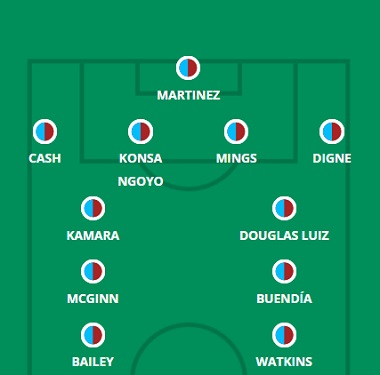
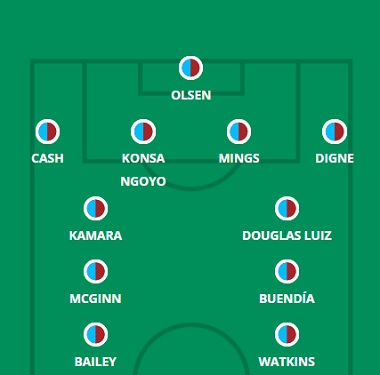
20/20

diff --git a/leeds.html b/leeds.html
@@ -63,15 +63,15 @@
     <hgroup>
         <h1> Provável Escalação</h1>
         <h2 class="direita"> por FabioVascão </h2>
-        <h3 class="direita"> Atualizado em 21/Novembro/2022 </h3>
+        <h3 class="direita"> Atualizado em 24/Novembro/2022 </h3>
     </hgroup>
 
     <div class="selecao"><p><b><img src="images/logos/leeds.png" width="100rem" height="100rem"/> Leeds</b></p></div>
        
     <div class="escalacao">
         <div class="topo">
-            <h2 class="titulo">Ultimas Notícias</h2> <h4><p> Como de costume, há muita coisa acontecendo no Leeds quando se trata de notícias da equipe. Stuart Dallas (joelho) e Archie Gray (tornozelo) permanecem na lista de lesionados e Tyler Adams está suspenso para a 17ª rodada, enquanto Luis Sinisterra (pé) não parece estar mais perto de um retorno. Illan Meslier (doença), Junior Firpo (virilha), Robin Koch (Aquiles), Patrick Bamford (quadril/virilha), Crysencio Summerville (pé) e Diego Llorente (mão), todos ausentes para o penúltimo amistoso do Leeds no meio da temporada contra o Real No entanto, o Sociedad, na última sexta-feira, tem uma “boa chance” de se recuperar para a próxima partida do campeonato contra o Manchester City. Jack Harrison não estava envolvido naquele jogo da Sociedad, mas o chefe adjunto do Leeds, Rene Maric, enfatizou que o ala "não está ferido" e simplesmente não estava em risco por precaução. Mais atualizações a seguir após as conferências de imprensa pré-jogo.</p></h4><br>
-            <h4><strong>Dúvidas:</strong> Dallas, Gray (Archie), Bamford, Firpo, Koch, Meslier, Sinisterra, Summerville e Adams (Tyler). </h4>
+            <h2 class="titulo">Ultimas Notícias</h2> <h4><p> Tyler Adams (suspenso), Stuart Dallas (joelho) e Luis Sinisterra (pé) são os únicos jogadores seniores definitivamente descartados da visita do Manchester City, mas o Leeds tem muitas preocupações em outros lugares. Illan Meslier (doença), Patrick Bamford (quadril/virilha), Crysencio Summerville (pé), Mateusz Klich (doença), Jack Harrison (virilha), Liam Cooper (panturrilha) e Rodrigo (coxa) estão todos marcados para a 17ª rodada, mas Jesse Marsch parecia otimista com a maioria de suas chances, esperando que todos eles pelo menos voltassem a treinar antes do jogo de quarta-feira. Marsch experimentou sua formação durante a Copa do Mundo, mudando de seu habitual 4-2-3-1 para um 4-3-3 nos dois últimos amistosos do meio da temporada. Cooper, Meslier e Rodrigo, você esperaria retornar ao XI inicial se estiverem totalmente aptos para a visita ao City, com uma saída Klich sobre Sam Greenwood e Harrison sobre Willy Gnonto possibilidades menos prováveis em suas respectivas posições. Luke Ayling e Joe Gelhardt estão na fila para substituir o meio-campo e o centroavante, respectivamente, se Cooper e Rodrigo não estiverem disponíveis, enquanto Joel Robles e Kristoffer Klaesson são os substitutos de Meslier se sua febre glandular o tornar incapaz de Reproduzir. Summerville pode estar perto de um retorno, mas depois de três semanas sem futebol, um substituto parece ser o cenário mais provável contra os atuais campeões.</p></h4><br>
+            <h4><strong>Dúvidas:</strong> Dallas, Gray (Archie), Sinisterra, Bamford, Cooper, Harrison, Klich, Meslier, Rodrigo,Summerville e Adams (Tyler). </h4>
         </div>
         <aside>
             <figure>

diff --git a/spurs.html b/spurs.html
@@ -63,15 +63,15 @@
     <hgroup>
         <h1> Provável Escalação</h1>
         <h2 class="direita"> por FabioVascão </h2>
-        <h3 class="direita"> Atualizado em 21/Novembro/2022 </h3>
+        <h3 class="direita"> Atualizado em 24/Novembro/2022 </h3>
     </hgroup>
 
     <div class="selecao"><p><b><img src="images/logos/tottenham.png" width="100rem" height="100rem"/> Tottenham</b></p></div>
        
     <div class="escalacao">
         <div class="topo">
-            <h2 class="titulo">Ultimas Notícias</h2> <h4><p> Relatos generalizados sugerem que Richarlison pode ficar fora por cinco a seis semanas devido a uma lesão no tendão que contraiu na derrota do Brasil nas quartas de final da Copa do Mundo para a Croácia, com uma varredura definida para determinar a extensão do problema. Ben Davies e Rodrigo Bentancur também voltaram do Catar com problemas musculares, embora Davies já esteja recuperado e Bentancur esteja suspenso para a 17ª rodada devido ao acúmulo de cartões amarelos. Ryan Sessegnon (coxa) não joga desde a semana 15, mas agora está recuperado, enquanto Emerson Royal, Lucas Moura e Fraser Forster sofreram pequenas pancadas e não correram riscos nos dois primeiros amistosos do Spurs no meio da temporada. Son Heung-min, Oliver Skipp e Djed Spence estão todos sofrendo de um vírus antes do amistoso final dos Lilywhites contra o Nice na quarta-feira. Mais atualizações a seguir após as conferências de imprensa pré-jogo.</p></h4><br>
-            <h4><strong>Dúvidas:</strong> Richarlison, Lucas Moura, Skipp, Spence e Bentancur.</h4>
+            <h2 class="titulo">Ultimas Notícias</h2> <h4><p> É uma verdadeira confusão quando se trata dos três jogadores do Spurs que estiveram envolvidos no último fim de semana da Copa do Mundo. Ivan Perisic está disponível para a seleção, mas Cristian Romero não estará de volta até a rodada 18 e Hugo Lloris estará apenas no banco contra o Brentford, o que significa uma largada para Fraser Forster entre os postes. No que diz respeito a lesões, Richarlison (coxa) enfrenta mais três a quatro semanas de ausência e Antonio Conte deu a entender que Lucas Moura ainda estava fora de jogo com as persistentes imperfeições que restringiram seu envolvimento em 2022/23 até agora. Matt Doherty parece bom para começar no oeste de Londres depois de quatro gols em três amistosos, mas pode jogar no flanco esquerdo, onde está implantado, com Perisic apenas voltando ao treinamento após 670 minutos de jogo com a Croácia e Ryan Sessegnon ainda não chutou uma bola após se recuperar de uma lesão. Outro zagueiro esquerdo que está em forma novamente, Ben Davies, conseguiu 24 minutos contra o Nice no meio da semana, mas não seria uma surpresa ver Davison Sanchez alinhar ao lado de Eric Dier e Clement Lenglet no meio-campo. Yves Bissouma parece pronto para substituir o suspenso Rodrigo Bentancur no meio-campo, enquanto a ausência de Richarlison e Lucas provavelmente cimenta as largadas dos três atacantes, desde que Son Heung-min não tenha nenhum efeito prolongado da doença que o restringiu para uma participação especial no meio da semana.</p></h4><br>
+            <h4><strong>Dúvidas:</strong> Richarlison, Lucas Moura, Skipp, Spence, Bentancur e Romero.</h4>
         </div>
         <aside>
             <figure>

diff --git a/chelsea.html b/chelsea.html
@@ -63,15 +63,15 @@
     <hgroup>
         <h1> Provável Escalação</h1>
         <h2 class="direita"> por FabioVascão </h2>
-        <h3 class="direita"> Atualizado em 21/Novembro/2022 </h3>
+        <h3 class="direita"> Atualizado em 24/Novembro/2022 </h3>
     </hgroup>
 
     <div class="selecao"><p><b><img src="images/logos/chelsea.png" width="100rem" height="100rem"/> Chelsea</b></p></div>
        
     <div class="escalacao">
         <div class="topo">
-            <h2 class="titulo">Ultimas Notícias</h2> <h4><p> Armando Broja é a mais recente adição a uma longa lista de lesões, depois de contrair uma lesão no ACL que encerrou sua temporada. N'Golo Kante (coxa) também ficará de fora por algum tempo, enquanto Ruben Loftus-Cheek (panturrilha) e Ben Chilwell (coxa) ainda não voltaram a treinar por conta das lesões sofridas antes da Copa do Mundo. Há rumores positivos sobre Reece James (joelho), pelo menos, enquanto houve a visão bem-vinda de Kepa Arrizabalaga (pé) em imagens de campo de treinamento na semana passada. Wesley Fofana (joelho) também estava prestes a retornar, mas se machucou novamente em um amistoso a portas fechadas contra o Brentford na terça-feira, então ele agora parece estar de fora do programa festivo. Há sugestões de que Mason Mount perdeu aquele jogo com uma leve distensão na panturrilha. Mais atualizações a seguir após as conferências de imprensa pré-jogo. </p></h4><br>
-            <h4><strong>Dúvidas:</strong> Broja, Kanté, Kepa, Chilwell, Chukwuemeka, Fofana, James (Reece) e Loftus-Cheek. </h4>
+            <h2 class="titulo">Ultimas Notícias</h2> <h4><p> Armando Broja (ACL), N'Golo Kante (coxa), Ruben Loftus-Cheek (panturrilha), Ben Chilwell (coxa) e Wesley Fofana (joelho) estão todos na lista de lesionados do Chelsea, enquanto Hakim Ziyech e Mateo Kovacic não ainda voltou para o oeste de Londres depois de sua longa campanha na Copa do Mundo e também não estará disponível na 17ª rodada. Houve alguns comentários positivos de Graham Potter sobre Reece James, pelo menos, com o chefe do Chelsea dizendo que o lateral esteve envolvido no treinamento e conseguiu 65 minutos em um amistoso contra o Brentford no meio da semana. A ausência de menção a Kepa Arrizabalaga (pé) e Mason Mount (panturrilha) durante o resumo das lesões também é uma boa notícia, com relatos sugerindo que a dupla esteve envolvida em treinamento. Em mais um reforço a Kepa, o treinador do Chelsea disse que Edouard Mendy só teve “alguns dias a treinar connosco”, pelo que o espanhol pode recuperar o seu lugar entre os postes frente aos Cherries. A ausência de Kovacic, Kante e Loftus-Cheek pode persuadir Potter a optar por um meio-campo de três homens para dar a Jorginho mais apoio no meio, com Carney Chukwuemeka e Denis Zakaria como alternativas a Conor Gallagher e Mount. Christian Pulisic é outra opção mais avançada depois de uma Copa do Mundo decente com os EUA, enquanto Lewis Hall, Thiago Silva e Cesar Azpilicueta são possibilidades na defesa. </p></h4><br>
+            <h4><strong>Dúvidas:</strong> Broja, Kanté, Kepa, Chilwell, Chukwuemeka, Fofana, Ziyech e Loftus-Cheek. </h4>
         </div>
         <aside>
             <figure>

diff --git a/arsenal.html b/arsenal.html
@@ -63,15 +63,15 @@
     <hgroup>
         <h1> Provável Escalação</h1>
         <h2 class="direita"> por FabioVascão </h2>
-        <h3 class="direita"> Atualizado em 21/Novembro/2022 </h3>
+        <h3 class="direita"> Atualizado em 24/Novembro/2022 </h3>
     </hgroup>
 
     <div class="selecao"><p><b><img src="images/logos/arsenal.svg" width="100rem" height="100rem"/> Arsenal</b></p></div>
        
     <div class="escalacao">
         <div class="topo">
-            <h2 class="titulo">Ultimas Notícias</h2> <h4><p> Gabriel Jesus definitivamente perderá o programa festivo devido a uma lesão no joelho que pode mantê-lo fora por até três meses, enquanto dois jogadores do Arsenal que sofreram lesões durante o outono - Emile Smith Rowe (virilha) e Oleksandr Zinchenko (músculo) - não participaram dos quatro amistosos do meio da temporada. Takehiro Tomiyasu também contraiu uma lesão no tendão da coxa enquanto jogava fora com o Japão na Copa do Mundo, enquanto a lesão de Reiss Nelson sofrida na derrota do último sábado para a Juventus está sendo avaliada. Mais atualizações a seguir após as conferências de imprensa pré-jogo.</p></h4><br>
-            <h4><strong>Dúvidas:</strong> Jesus, Smith-Rowe, Tomiyasu, Zinchenko.</h4>
+            <h2 class="titulo">Ultimas Notícias</h2> <h4><p> Gabriel Jesus definitivamente perderá o programa festivo devido a uma lesão no joelho, enquanto Reiss Nelson também enfrenta “semanas” de ausência devido a um problema muscular contraído em um amistoso contra a Juventus na semana passada. Emile Smith Rowe (virilha) está “perto” de uma recuperação, de acordo com seu empresário, mas não houve nenhuma atualização recente sobre Oleksandr Zinchenko (músculo) ou Takehiro Tomiyasu (coxa) no pré-jogo de Arteta; relatos da mídia sugerem que Tomiyasu, junto com Kieran Tierney, estava apenas descansado para o amistoso do meio da semana contra o Luton Town. Houve mais notícias positivas em outro lugar, pois Arteta relatou que, além do ferido Jesus e do finalista William Saliba, seu contingente da Copa do Mundo havia retornado antes da 17ª semana de jogo. Jogadores como Bukayo Saka e Gabriel Martinelli participaram daquele amistoso contra o Hatters, então parecem prontos para o envolvimento do Boxing Day, com a maior parte do XI inicial naquele jogo a portas fechadas (que incluía Eddie Nketiah no meio) parecendo o que veremos contra o West Ham. As únicas dúvidas provavelmente são sobre Saliba e Tierney, com o primeiro pronto para voltar aos treinos na sexta-feira, após envolvimento limitado na rodada com a França no Catar. Enquanto isso, Tierney foi esquecido como lateral-esquerdo na última vez em que Zinchenko esteve fora, mas com Tomiyasu lutando para se preparar e o escocês participando de todos os quatro amistosos anteriores no meio da temporada, os sinais parecem positivos. Rob Holding e Cedric Soares estarão de prontidão no centro e na lateral-esquerda, respectivamente.</p></h4><br>
+            <h4><strong>Dúvidas:</strong> Jesus, Nelson, Smith-Rowe, Tomiyasu e Zinchenko.</h4>
         </div>
         <aside>
             <figure>

diff --git a/everton.html b/everton.html
@@ -63,14 +63,14 @@
     <hgroup>
         <h1> Provável Escalação</h1>
         <h2 class="direita"> por FabioVascão </h2>
-        <h3 class="direita"> Atualizado em 21/Novembro/2022 </h3>
+        <h3 class="direita"> Atualizado em 24/Novembro/2022 </h3>
     </hgroup>
 
     <div class="selecao"><p><b><img src="images/logos/everton.png" width="100rem" height="100rem"/> Everton</b></p></div>
        
     <div class="escalacao">
         <div class="topo">
-            <h2 class="titulo">Ultimas Notícias</h2> <h4><p> Curiosamente, o Everton organizou seus amistosos no meio da temporada logo após o término da 16ª rodada, então a última atualização de condicionamento físico que recebemos de Frank Lampard foi há um mês. Lesões de três a quatro semanas contraídas por Yerry Mina e Tom Davies em meados de novembro devem estar perto de serem recuperadas com base no prognóstico original, então. A dupla, junto com Dominic Calvert-Lewin (joelho/ombro/coxa), foram vistos no campo de treinamento em meados de dezembro, embora fosse apenas um trabalho de ginástica feito por Mina e Calvert-Lewin, quinze dias antes do confronto com o Wolves. . James Garner pode ficar de fora até fevereiro devido a uma lesão na parte inferior das costas, enquanto o emprestado Conor Coady definitivamente perderá a 17ª rodada, já que não pode enfrentar seu clube matriz. Mais atualizações a seguir após as conferências de imprensa pré-jogo.</p></h4><br>
+            <h2 class="titulo">Ultimas Notícias</h2> <h4><p> James Garner (costas), Andros Townsend (joelho) e Conor Coady (inelegível) definitivamente perderão a Rodada 17, enquanto Dominic Calvert-Lewin (joelho/ombro/coxa) está de volta aos treinos, mas uma dúvida para o jogo com os Wolves, já que Frank Lampard não 't quer correr riscos com sua forma física. Não temos muitas pistas reveladoras sobre a escalação dos amistosos do meio da temporada, já que as duas primeiras partidas do Everton foram realizadas logo após o término da 16ª rodada e a partida mais recente foi disputada a portas fechadas, sem informações sobre a escalação. acessível. Mas Mason Holgate pode ter vantagem para substituir Coady depois de fazer parceria com James Tarkowski no último amistoso de novembro na Austrália, enquanto o fato de Dwight McNeil não ter começado na ala em nenhuma das partidas Down Under (uma em que ele foi substituído, a outra ele foi usado no meio-campo central) sugere que serão Demarai Gray e Anthony Gordon que veremos flanqueando Neal Maupay contra o Wolves. O trio de meio-campo de Alex Iwobi, Amadou Onana e Idrissa Gueye permaneceu inalterado nas últimas nove semanas de jogo, enquanto Vitalli Mykolenko e Tarkowski são titulares sempre presentes na defesa nesta temporada. Nathan Patterson recuperou seu lugar como lateral-direito na Gameweek 16, enquanto isso, com algumas exibições positivas nos amistosos sugerindo que ele continuará eliminando o rival de posição Seamus Coleman.</p></h4><br>
             <h4><strong>Dúvidas:</strong> Coady, Garner, Calvert-Lewin e Townsend. </h4>
         </div>
         <aside>

diff --git a/leicester.html b/leicester.html
@@ -63,15 +63,15 @@
     <hgroup>
         <h1> Provável Escalação</h1>
         <h2 class="direita"> por FabioVascão </h2>
-        <h3 class="direita"> Atualizado em 21/Novembro/2022 </h3>
+        <h3 class="direita"> Atualizado em 24/Novembro/2022 </h3>
     </hgroup>
 
     <div class="selecao"><p><b><img src="images/logos/leicester.png" width="100rem" height="100rem"/> Leicester</b></p></div>
        
     <div class="escalacao">
         <div class="topo">
-            <h2 class="titulo">Ultimas Notícias</h2> <h4><p> James Justin (Aquiles), Ryan Bertrand (joelho) e Ricardo Pereira (Aquiles) permanecem de fora, enquanto Caglar Soyuncu (coxa) não joga desde o início de novembro, mas foi flagrado treinando esta semana. A nova lesão a relatar diz respeito a Jonny Evans (panturrilha), que saiu mancando do amistoso a portas fechadas dos Foxes contra o Troyes em 10 de dezembro. Kiernan Dewsbury-Hall também perdeu a eliminatória da copa com uma “pequena batida”. Mais atualizações a seguir após as conferências de imprensa pré-jogo.</p></h4><br>
-            <h4><strong>Dúvidas:</strong> Ricardo Pereira, Bertrand, Justin, Dewsbury-Hall, Evans e Söyüncü.</h4>
+            <h2 class="titulo">Ultimas Notícias</h2> <h4><p> Brendan Rodgers revelou na sexta-feira que James Maddison está lutando com um problema contínuo no joelho, então o internacional da Inglaterra precisará ser avaliado para ver se ele pode participar do jogo do Boxing Day contra o Newcastle United. James Justin (Aquiles), Ryan Bertrand (joelho) e Ricardo Pereira (Aquiles) permanecem ausentes, enquanto Jonny Evans (panturrilha) juntou-se a eles depois de sair mancando do amistoso a portas fechadas dos Foxes contra o Troyes em dezembro 10. Kiernan Dewsbury-Hall se recuperou de uma pequena pancada, no entanto, e voltou à disputa depois de perder no meio da semana. Enquanto Rodgers estava otimista sobre Maddison ("vamos dar todas as chances"), não seria uma surpresa se ele não corresse o risco de mais duas partidas caindo logo após a 17ª rodada. Dennis Praet tem sido usado no flanco direito no lugar de Maddison ultimamente e será o favorito para ocupar o lugar de seu companheiro de equipe se ele perder, com Ayoze Perez - recém-saído de uma exibição encorajadora em um papel de meio-campo ofensivo contra Dons MK - outra possibilidade. Os únicos outros dilemas de Rodgers parecem ser o meio-campo e o centroavante. No topo, o artilheiro do meio da semana Jamie Vardy e Patson Daka (inicial em sete dos últimos 10 jogos da liga) provavelmente dividirão o tempo de jogo neste período movimentado. E assim como há uma troca de guarda no ataque, também pode estar acontecendo a mesma coisa na sala de máquinas: o lento Boubakary Soumare foi titular regular durante o ressurgimento do Leicester antes do intervalo da Copa do Mundo e novamente jogou à frente de Wilfred Ndidi em meio da semana.</p></h4><br>
+            <h4><strong>Dúvidas:</strong> Ricardo Pereira, Bertrand, Justin, Evans e Maddison.</h4>
         </div>
         <aside>
             <figure>

diff --git a/liverpool.html b/liverpool.html
@@ -63,15 +63,15 @@
     <hgroup>
         <h1> Provável Escalação</h1>
         <h2 class="direita"> por FabioVascão </h2>
-        <h3 class="direita"> Atualizado em 21/Novembro/2022 </h3>
+        <h3 class="direita"> Atualizado em 24/Novembro/2022 </h3>
     </hgroup>
 
     <div class="selecao"><p><b><img src="images/logos/liverpool.png" width="100rem" height="100rem"/> Liverpool</b></p></div>
        
     <div class="escalacao">
         <div class="topo">
-            <h2 class="titulo">Ultimas Notícias</h2> <h4><p> Arthur (músculo) permanece de fora até o início de 2023, mas as principais notícias sobre lesões do ponto de vista da FPL dizem respeito a Diogo Jota (coxa) e Luis Diaz (joelho), o último dos quais pode estar na fila para um retorno da Rodada 17 se sua recuperação tivesse ido bem durante o intervalo da Copa do Mundo. Mas Diaz teve um revés que exigiu intervenção cirúrgica, o que pode deixá-lo afastado até março. Jota, por sua vez, está de volta ao ginásio, mas fevereiro foi apontado como a data de retorno do atacante português. Mais atualizações a seguir após as conferências de imprensa pré-jogo.</p></h4><br>
-            <h4><strong>Dúvidas:</strong> Díaz, Arthur, Diogo Jota e Jones.</h4>
+            <h2 class="titulo">Ultimas Notícias</h2> <h4><p> Arthur (músculo), Diogo Jota (coxa) e Luis Diaz (joelho) são ausências de médio a longo prazo, enquanto Roberto Firmino (panturrilha) e James Milner (coxa) devem ficar de fora pelo menos nos próximos dois jogos e Ibrahima Konate não voltará a treinar até 27 de dezembro, após sua corrida até a final da Copa do Mundo. Trent Alexander-Arnold, que perdeu a eliminatória da EFL Cup com o Manchester City na quinta-feira por causa de um vírus, também precisará ser avaliado antes do Boxing Day, tendo treinado apenas parcialmente na sexta-feira. Alex Oxlade-Chamberlain e Fabio Carvalho parecem prestes a brigar pelo terceiro ponto de ataque em meio à crise de lesões no topo, com o último substituído pelo primeiro no intervalo da derrota na copa de quinta-feira para o City e talvez perdendo a vantagem para a 17ª rodada. uma batalha semelhante na sala de máquinas, com Jordan Henderson de volta da Inglaterra para desafiar Harvey Elliott e oferecer um pouco mais de proteção no lado direito do meio-campo contra um time do Villa impulsionado pela recente mudança gerencial. Joel Matip e Virgil van Dijk parecem ser a dupla de meio-campo em Midlands, mas nem tudo está perdido para o fora de série Joe Gomez, que pode ser solicitado a substituir o lateral-direito se Alexander-Arnold não for 'não considerado apto o suficiente para começar após a doença.</p></h4><br>
+            <h4><strong>Dúvidas:</strong> Firmino, Díaz, Konaté, Milner, Arthur, Diogo Jota, Arnold e Jones.</h4>
         </div>
         <aside>
             <figure>

diff --git a/brighton.html b/brighton.html
@@ -63,15 +63,15 @@
     <hgroup>
         <h1> Provável Escalação</h1>
         <h2 class="direita"> por FabioVascão </h2>
-        <h3 class="direita"> Atualizado em 21/Novembro/2022 </h3>
+        <h3 class="direita"> Atualizado em 24/Novembro/2022 </h3>
     </hgroup>
 
     <div class="selecao"><p><b><img src="images/logos/brighton.png" width="100rem" height="100rem"/> Brighton</b></p></div>
        
     <div class="escalacao">
         <div class="topo">
-            <h2 class="titulo">Ultimas Notícias</h2> <h4><p> Jakub Moder (joelho) continua na lista de lesionados, enquanto o único amistoso de Brighton no meio da temporada em 8 de dezembro viu Adam Webster e Danny Welbeck mancando no primeiro tempo. Nenhum dos jogadores foi visto em treinamento antes do empate da EFL Cup no meio da semana contra o Charlton e Roberto De Zerbi confirmou que a dupla ficaria de fora. Alexis Mac Allister parece prestes a perder as semanas de jogo 17 e 18, com os Seagulls confirmando que lhe deram duas semanas de folga após a corrida dele e da Argentina até a final da Copa do Mundo. Mais atualizações a seguir após as conferências de imprensa pré-jogo.</p></h4><br>
-            <h4><strong>Dúvidas:</strong> Mac Allister, Moder e Mwepu. </h4>
+            <h2 class="titulo">Ultimas Notícias</h2> <h4><p> Jakub Moder (joelho) continua na lista de lesionados, enquanto Adam Webster e Danny Welbeck não estarão envolvidos contra o Southampton por causa de lesões sofridas em um amistoso no meio da temporada. Alexis Mac Allister também parece perder as semanas de jogo 17 e 18, com os Seagulls confirmando que lhe deram duas semanas de folga após a corrida dele e da Argentina até a final da Copa do Mundo. Levi Colwill impressionou ao substituir Webster nesta temporada e parece pronto para fazer parceria com Lewis Dunk na defesa, enquanto Leandro Trossard parece ser o favorito para liderar a linha na ausência de Welbeck, com o júri ainda de fora do titular da EFL Cup, Denis Undav. Com Mac Allister indisponível, podemos ver o versátil Pascal Gross movido para algo mais parecido com uma posição natural após seu recente flerte como lateral; novamente, é duvidoso que Billy Gilmour fosse jogado no St Mary's depois que ele mal apareceu na liga antes deste ponto. Quase todos os outros titulares nesta escalação prevista parecem ser os escolhidos, com a única dúvida sendo sobre qual Joel Veltman ou Tariq Lamptey será o lateral-direito. Foi Lamptey quem teve a chance de impressionar contra Charlton e impressionar na maior parte do tempo, talvez dando a ele a vantagem para o Boxing Day.</p></h4><br>
+            <h4><strong>Dúvidas:</strong> Mac Allister, Moder, Mwepu, Webster e Welbeck. </h4>
         </div>
         <aside>
             <figure>

diff --git a/nforest.html b/nforest.html
@@ -63,14 +63,14 @@
     <hgroup>
         <h1> Provável Escalação</h1>
         <h2 class="direita"> por FabioVascão </h2>
-        <h3 class="direita"> Atualizado em 21/Novembro/2022 </h3>
+        <h3 class="direita"> Atualizado em 24/Novembro/2022 </h3>
     </hgroup>
 
     <div class="selecao"><p><b><img src="images/logos/nforest.png" width="100rem" height="100rem"/> N. Forest</b></p></div>
        
     <div class="escalacao">
         <div class="topo">
-            <h2 class="titulo">Ultimas Notícias</h2> <h4><p> Cheikhou Kouyate (coxa) juntou-se a Moussa Niakhate (músculo) e Giulian Biancone (ACL) na lista de lesões de longo prazo, enquanto o emprestado Dean Henderson não poderá enfrentar seu clube pai na 17ª rodada e a nova contratação Gustavo Scarpa não pode jogar até janeiro. Omar Richards (perna) pode voltar a treinar pouco antes do próximo confronto com o Manchester United, mas depois de tanto tempo parado, um retorno competitivo pode estar distante. Jack Colback, Serge Aurier e Morgan Gibbs-White perderam a vitória da última sexta-feira sobre o Valencia ou se machucaram durante ela, mas nenhuma das lesões parece grave. Mais atualizações a seguir após as conferências de imprensa pré-jogo.</p></h4><br>
+            <h2 class="titulo">Ultimas Notícias</h2> <h4><p> Cheikhou Kouyate (coxa), Moussa Niakhate (músculo), Omar Richards (perna) e Giulian Biancone (ACL) estão fora, enquanto o emprestado Dean Henderson não poderá enfrentar seu clube matriz na 17ª rodada e a nova contratação Gustavo Scarpa não pode jogar até janeiro. No entanto, o técnico do Forest, Steve Cooper, continua “esperançoso” de que Morgan Gibbs-White (knock), Serge Aurier (panturrilha) e Wayne Hennessey (knock) estejam aptos para o confronto de sua equipe com o Manchester United, com a disponibilidade de Hennessey em particular ainda mais importante dado que Henderson não pode jogar. Com exceção de Orel Mangala e Hennessey (no lugar dos indisponíveis Kouyate e Henderson), a escalação prevista que você vê aqui é a equipe que venceu o Crystal Palace na 16ª rodada. Taiwo Awoniyi e Neco Williams, parte de uma equipe forte que venceu 4-1 em Blackburn no meio da semana, estará em espera se Gibbs-White e Aurier não conseguirem, enquanto Lewis O'Brien é uma alternativa para Mangala no local vago por Kouyate. O resto do time está começando a parecer resolvido, com os dois zagueiros, Ryan Yates, Remo Freuler, Brennan Johnson e Jesse Lingard, todos começando a consolidar seus lugares no XI de primeira escolha de Cooper.</p></h4><br>
             <h4><strong>Dúvidas:</strong> Biancone, Henderson (Dean), Kouyaté, Niakhaté, Aurier, Gibbs-White, Hennessey e Richards (Omar).</h4>
         </div>
         <aside>

diff --git a/westham.html b/westham.html
@@ -63,14 +63,14 @@
     <hgroup>
         <h1> Provável Escalação</h1>
         <h2 class="direita"> por FabioVascão </h2>
-        <h3 class="direita"> Atualizado em 21/Novembro/2022 </h3>
+        <h3 class="direita"> Atualizado em 24/Novembro/2022 </h3>
     </hgroup>
 
     <div class="selecao"><p><b><img src="images/logos/west-ham.png" width="100rem" height="100rem"/> West Ham</b></p></div>
        
     <div class="escalacao">
         <div class="topo">
-            <h2 class="titulo">Ultimas Notícias</h2> <h4><p> As lesões estão se acumulando para os Hammers antes do reinício, com Gianluca Scamacca torcendo o tornozelo no amistoso do último sábado contra o Fulham e Michail Antonio perdendo totalmente devido a um problema na coxa. Também ausente estava Aaron Cresswell, que sofreu uma lesão no tendão da coxa no início de dezembro. Kurt Zouma não joga desde uma cirurgia no joelho em novembro, enquanto a recuperação de Maxwel Cornet de uma lesão na panturrilha se arrasta e parece improvável que ele jogue este ano. Nayef Aguerd contraiu um problema na virilha enquanto estava fora com o Marrocos e perdeu as últimas três partidas de seu país (embora apenas depois de desistir do aquecimento na semifinal), então aguardamos notícias sobre a gravidade de seu problema. Mais atualizações a seguir após as conferências de imprensa pré-jogo.</p></h4><br>
+            <h2 class="titulo">Ultimas Notícias</h2> <h4><p> Gianluca Scamacca (tornozelo) e Michail Antonio (panturrilha) estão “em dúvida” para o jogo do Arsenal no Boxing Day, com David Moyes discutindo na imprensa de sexta-feira a possibilidade de usar Jarrod Bowen pelo meio no Emirates. Não ouvimos mais atualizações sobre Aaron Cresswell, que sofreu uma lesão no tendão no início de dezembro, ou Kurt Zouma, que não joga desde uma cirurgia no joelho em novembro. A recuperação de Maxwel Cornet de uma lesão na panturrilha se arrasta e parece improvável que ele jogue este ano, enquanto Nayef Aguerd contraiu um problema na virilha e um vírus enquanto estava fora do Marrocos, então será avaliado em seu retorno ao leste de Londres no sábado. Apesar das possíveis ausências, Moyes tem alternativas ao cenário que previmos aqui. Angelo Ogbonna ou Ben Johnson podem ser adicionados como terceiro zagueiro se um sistema lateral for escolhido contra os líderes da liga, enquanto Flynn Downes é uma possível adição defensiva ao meio-campo; nós o vimos operar como um não. 10 e meio-campista direito já nesta temporada, quando seu técnico optou por uma abordagem mais conservadora.</p></h4><br>
             <h4><strong>Dúvidas:</strong>Aguerd, Antonio, Cornet, Cresswell, Scamacca e Zouma.</h4>
         </div>
         <aside>

diff --git a/aston.html b/aston.html
@@ -63,15 +63,15 @@
     <hgroup>
         <h1> Provável Escalação</h1>
         <h2 class="direita"> por FabioVascão </h2>
-        <h3 class="direita"> Atualizado em 21/Novembro/2022 </h3>
+        <h3 class="direita"> Atualizado em 24/Novembro/2022 </h3>
     </hgroup>
 
     <div class="selecao"><p><b><img src="images/logos/aston-villa.png" width="100rem" height="100rem"/> Aston Villa</b></p></div>
        
     <div class="escalacao">
         <div class="topo">
-            <h2 class="titulo">Ultimas Notícias</h2> <h4><p> Diego Carlos (Aquiles) e Philippe Coutinho (músculo) foram os dois principais ausentes do Aston Villa antes da Copa do Mundo e nenhum deles voltou a jogar desde então. Carlos ainda está longe de voltar a jogar, mas Coutinho foi recentemente visto treinando com seus companheiros de equipe, então pode estar perto de um retorno, embora ele não tenha participado de nenhum dos amistosos do meio da temporada. Jacob Ramsey não chuta uma bola desde o amistoso do Aston Villa contra o Cardiff em 30 de novembro, mas foi flagrado treinando no início desta semana. Mais atualizações a seguir após as conferências de imprensa pré-jogo.</p></h4><br>
-            <h4><strong>Dúvidas:</strong> Diego Carlos, Coutinho e Ramsey.</h4>
+            <h2 class="titulo">Ultimas Notícias</h2> <h4><p> Emi Martinez ficará de fora do jogo contra o Liverpool por causa de um retorno tardio da Copa do Mundo, mas o substituto Robin Olsen deve estar em forma após uma pequena lesão. Diego Carlos (Aquiles) e Jacob Ramsey (coxa) também estão afastados, enquanto Philippe Coutinho (músculo) voltou a treinar após alguns meses e pode entrar na disputa. Unai Emery usou um 4-2-2-2 desde sua nomeação, mantendo-se com Ollie Watkins e Leon Bailey como seus dois atacantes titulares nos últimos três amistosos oficiais do meio da temporada, apesar de algumas contribuições de Danny Ings. John McGinn e Emi Buendia também tiveram destaque nas partidas de aquecimento, com Ramsey fora e Coutinho apenas retornando, enquanto Emery parece estar procedendo com um duplo seis de Boubacar Kamara e Douglas Luiz na frente de um quatro recuado. A única dúvida sobre a defesa é o retorno tardio de Matty Cash da Copa do Mundo, mas o internacional polonês conseguiu meia hora como reserva contra o Villarreal em meados de dezembro, com o amistoso a portas fechadas no Everton (que não tem alguma informação sobre escalação) presumivelmente oferecendo a ele mais uma chance de aumentar seus níveis de condicionamento físico.</p></h4><br>
+            <h4><strong>Dúvidas:</strong> Diego Carlos, Martinez, Olsen e Ramsey.</h4>
         </div>
         <aside>
             <figure>

diff --git a/united.html b/united.html
@@ -63,15 +63,15 @@
     <hgroup>
         <h1> Provável Escalação</h1>
         <h2 class="direita"> por FabioVascão </h2>
-        <h3 class="direita"> Atualizado em 21/Novembro/2022 </h3>
+        <h3 class="direita"> Atualizado em 24/Novembro/2022 </h3>
     </hgroup>
 
     <div class="selecao"><p><b><img src="images/logos/manchester-united.png" width="100rem" height="100rem"/> Manchester United</b></p></div>
        
     <div class="escalacao">
         <div class="topo">
-            <h2 class="titulo">Ultimas Notícias</h2> <h4><p> Aguardam-se notícias sobre uma possível lesão num tendão sofrida por Diogo Dalot, que regressou do Qatar a Manchester para avaliação. Há um pouco de mistério em torno de Jadon Sancho, que não joga desde a 13ª rodada. O covid foi o motivo original de sua ausência no início de novembro, mas agora ele está em um "programa físico" individual durante o intervalo do meio da temporada e não destaque em um dos dois amistosos recentes do United. Mais atualizações a seguir após as conferências de imprensa pré-jogo.</p></h4><br>
-            <h4><strong>Dúvidas:</strong> Dalot e Sancho.</h4>
+            <h2 class="titulo">Ultimas Notícias</h2> <h4><p> Seis dias separam a pressão da Rodada 17 de Erik ten Hag e a partida contra o Nottingham Forest, então não vamos receber as últimas notícias do time do United diretamente da boca do cavalo. O holandês foi de pouca ajuda ao enfrentar a mídia após a vitória da EFL Cup sobre o Burnley, dizendo que não sabia se Harry Maguire (doença) estaria apto ou se Lisandro Martinez e Raphael Varane estariam disponíveis após as férias pós-Copa do Mundo . Não deu nenhuma novidade sobre Diogo Dalot (coxa), que ten Hag disse ter regressado do Qatar com "algumas queixas". Não há muito debate sobre os quatro zagueiros se Varane, Martinez e Dalot ficarem de fora, enquanto Casemiro pode ter que preencher novamente o meio-campo - como fez na quarta-feira - se Maguire também for afastado. Scott McTominay e Fred estarão disponíveis para substituí-los se os serviços de Casemiro forem necessários na defesa. Christian Eriksen, Bruno Fernandes, Marcus Rashford e Anthony Martial parecem ser os escolhidos para jogar mais no ataque (se lesões/doenças permitirem), com Antony no lugar de Alejandro Garnacho, certamente uma mudança que ten Hag está pensando agora que o brasileiro tem meio hora de jogo em seu currículo após um retorno do Catar.</p></h4><br>
+            <h4><strong>Dúvidas:</strong> Dalot, Maguire, Varane e Sancho.</h4>
         </div>
         <aside>
             <figure>
